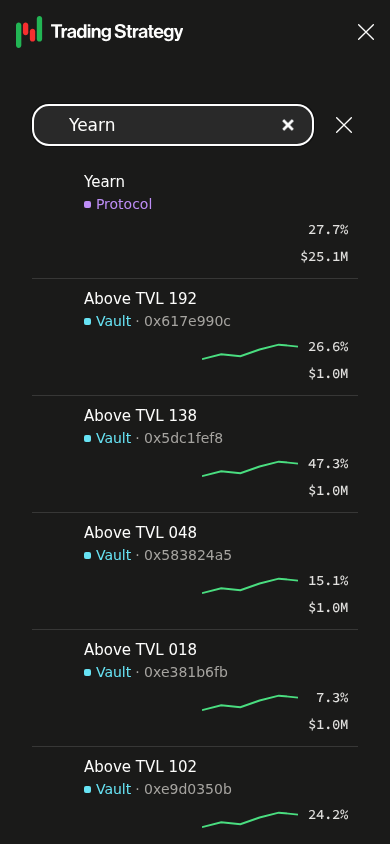
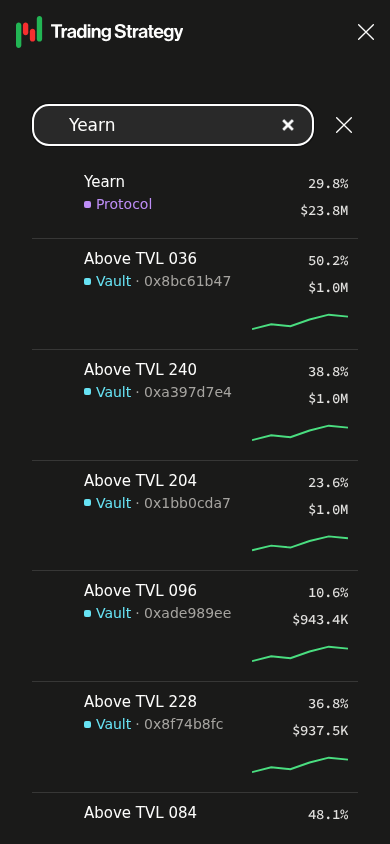
fix: refine tablet and mobile search results

diff --git a/tests/integration/navigation.test.ts b/tests/integration/navigation.test.ts
@@ -94,9 +94,12 @@ test.describe('navigation entity search', () => {
 			await expect(vaultResult).not.toContainText('3M price');
 
 			if (name === 'iPad landscape') {
+				const resultListBounds = await protocolResults.getByRole('listbox').boundingBox();
 				const vaultNameBounds = await vaultResult.locator('.result-main').boundingBox();
 				const vaultSparklineBounds = await vaultResult.locator('.result-sparkline').boundingBox();
 				const vaultMetricsBounds = await vaultResult.locator('.metrics').boundingBox();
+				expect(resultListBounds).not.toBeNull();
+				expect(resultListBounds!.width).toBeLessThanOrEqual(400);
 				expect(vaultNameBounds).not.toBeNull();
 				expect(vaultSparklineBounds).not.toBeNull();
 				expect(vaultMetricsBounds).not.toBeNull();
@@ -120,7 +123,8 @@ test.describe('navigation entity search', () => {
 				expect(vaultSparklineBounds).not.toBeNull();
 				expect(vaultMetricsBounds).not.toBeNull();
 				expect(vaultSparklineBounds!.y).toBeGreaterThan(vaultNameBounds!.y);
-				expect(vaultMetricsBounds!.y).toBeGreaterThan(vaultNameBounds!.y);
+				expect(vaultMetricsBounds!.y - vaultNameBounds!.y).toBeLessThan(32);
+				expect(vaultSparklineBounds!.y).toBeGreaterThan(vaultMetricsBounds!.y);
 				expect(await page.evaluate(() => document.documentElement.scrollWidth)).toBeLessThanOrEqual(375);
 			}
 

diff --git a/src/lib/search/components/Search.svelte b/src/lib/search/components/Search.svelte
@@ -525,14 +525,18 @@ underlying vault JSON index private.
 			max-height: none;
 			margin-top: var(--space-md);
 		}
+		.results ul {
+			max-width: 25rem;
+			margin-inline: auto;
+		}
 	}
 
 	@media (--viewport-xs) {
 		.dialog li a {
 			grid-template-columns: 2rem minmax(0, 1fr) max-content;
 			grid-template-areas:
-				'logo main main'
-				'. sparkline metrics';
+				'logo main metrics'
+				'. . sparkline';
 			align-items: start;
 			row-gap: var(--space-xs);
 		}
